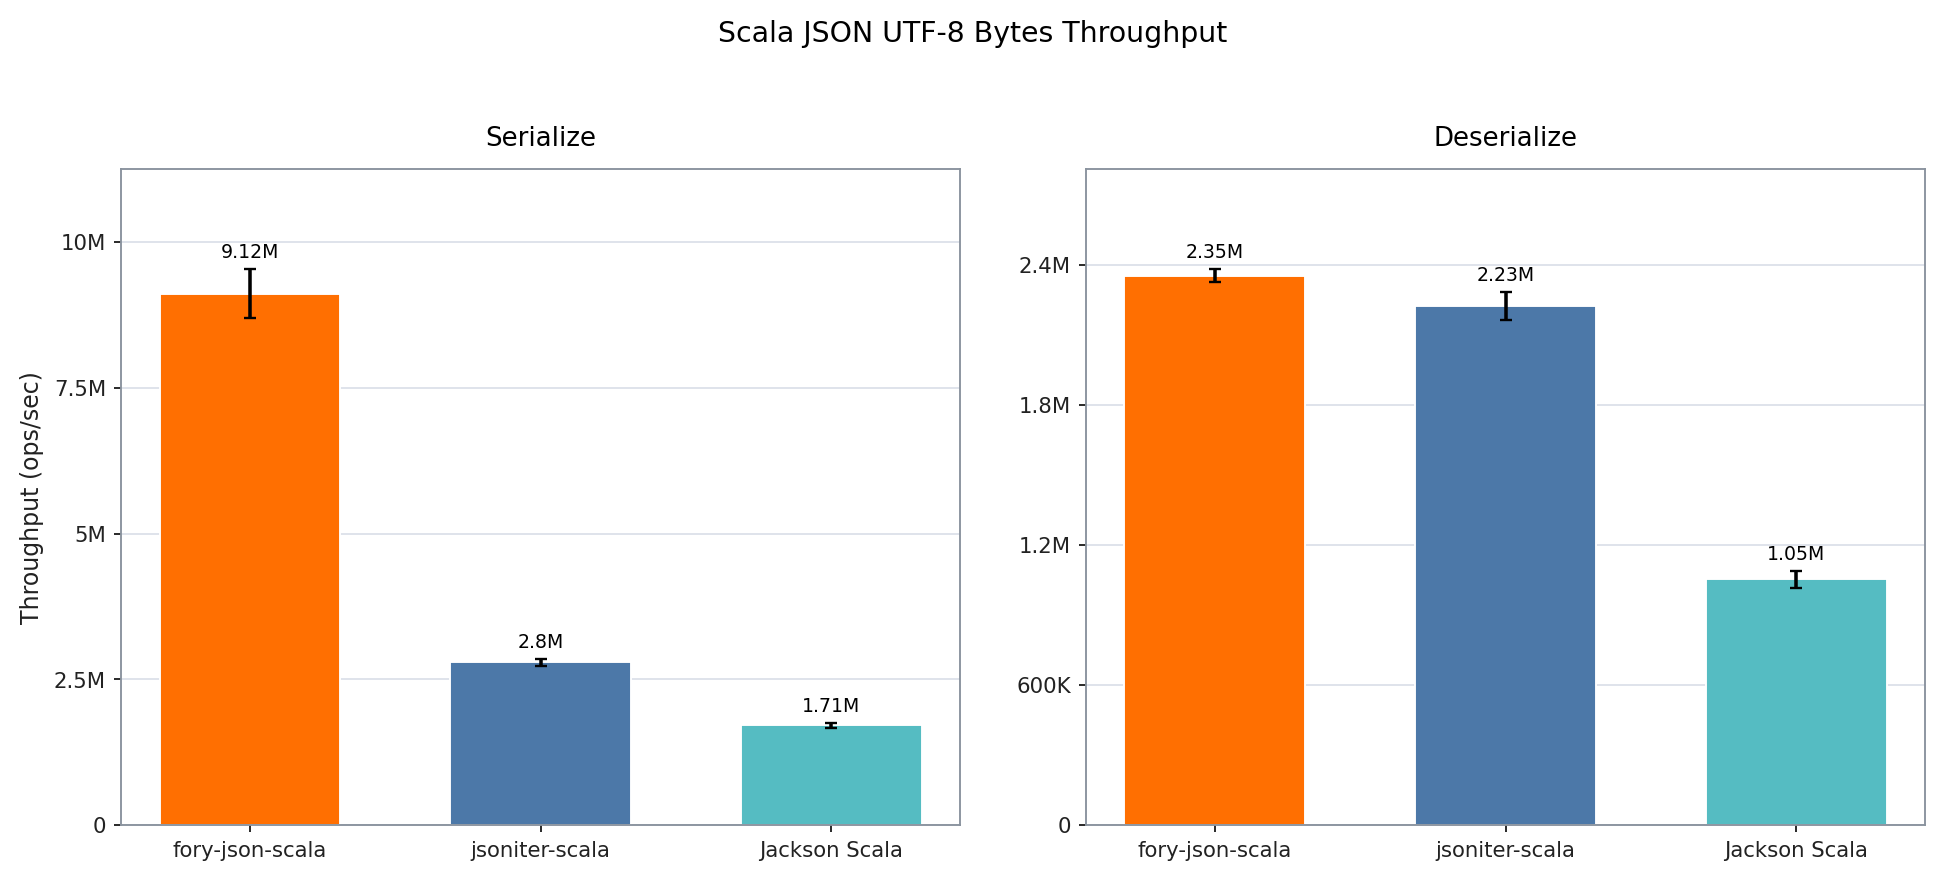
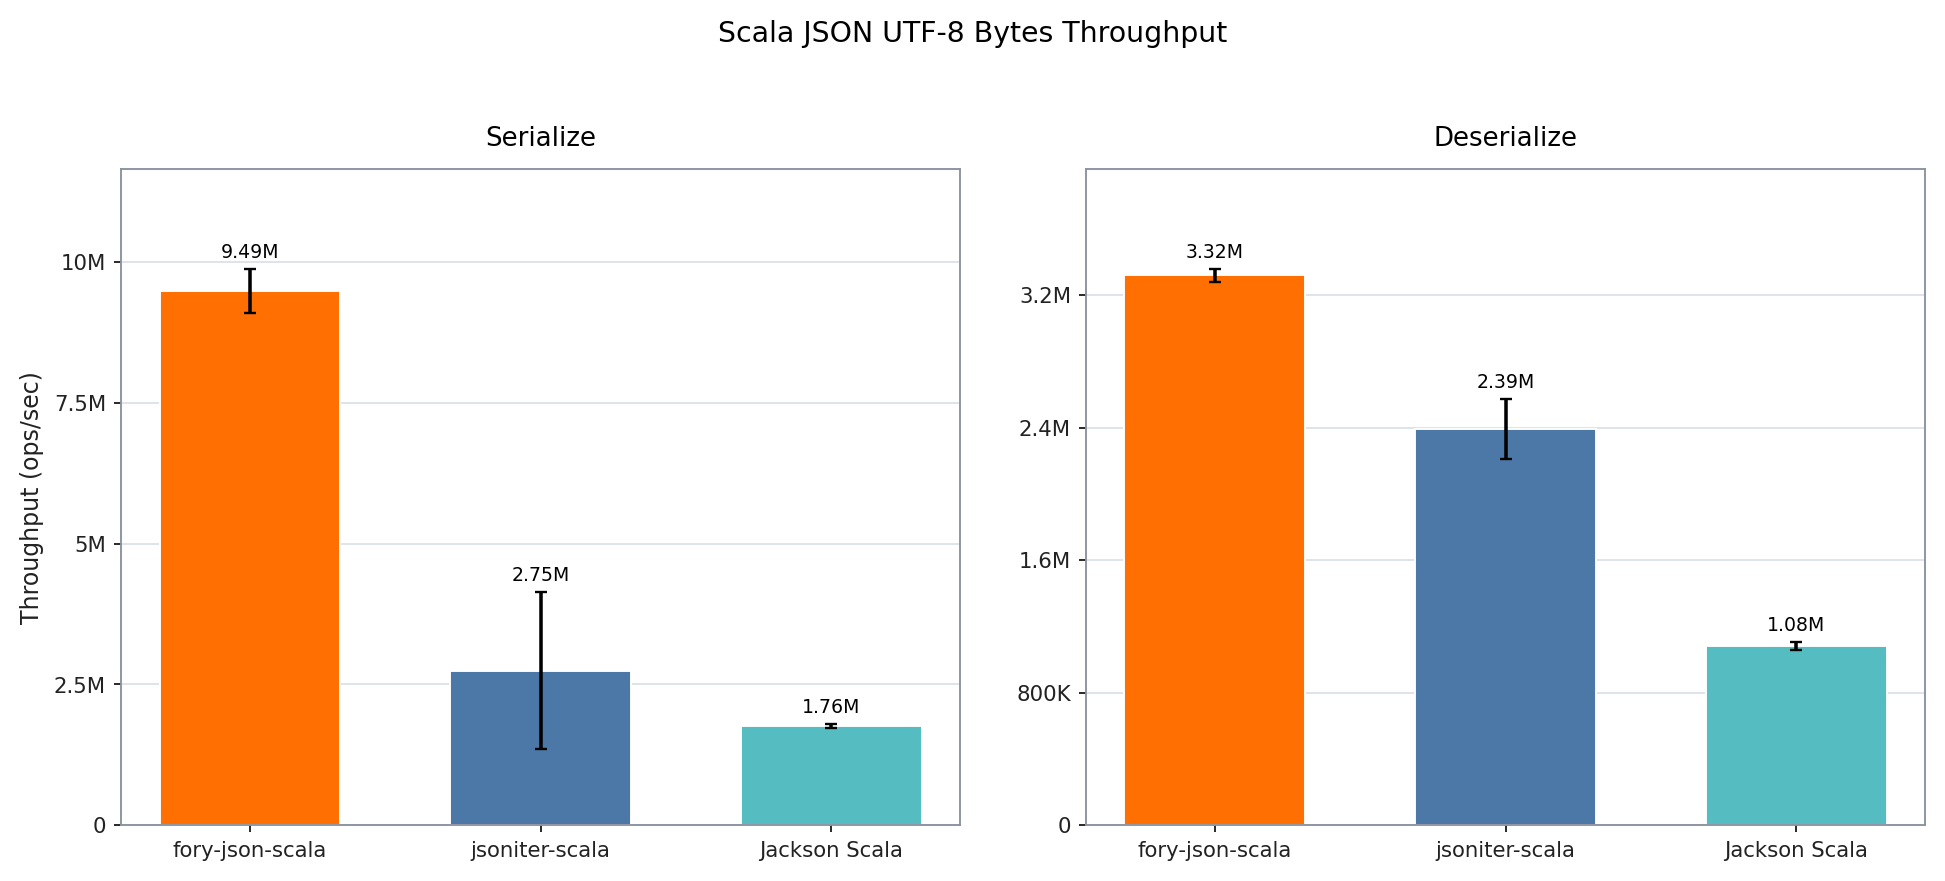
docs(scala): publish optimized JSON benchmarks

diff --git a/docs/benchmarks/json/scala/README.md b/docs/benchmarks/json/scala/README.md
@@ -3,13 +3,13 @@
 The benchmark compares fory-json-scala, jsoniter-scala, and Jackson Scala on the same immutable Scala MediaContent model and Eishay JSON document. The String group excludes UTF-8 conversion; every library in the UTF-8 group uses its direct byte-array API.
 
 - Benchmark date: `2026-08-14`
-- Source commit: `05670052978e76f1ae5b6df74049dc9bad790019`
+- Source commit: `588ad6ab355c4c23fa0a2e4f269a8c733cba7b01`
 - Platform: macOS-15.7.2-arm64-arm-64bit (arm64)
 - JDK: `26.0.1`
 - VM: `OpenJDK 64-Bit Server VM`
 - JMH: `1.37`
-- Warmup: 1 iterations × `500 ms`
-- Measurement: 2 iterations × `500 ms`
+- Warmup: 2 iterations × `1 s`
+- Measurement: 2 iterations × `1 s`
 - Forks: 1; threads: 1
 - Aggregation: median of 3 alternating short runs; error bars show the maximum cross-run deviation
 - Mode: throughput; higher is better
@@ -26,16 +26,16 @@ The benchmark compares fory-json-scala, jsoniter-scala, and Jackson Scala on the
 
 | Representation | Operation   | fory-json-scala ops/sec | jsoniter-scala ops/sec | Jackson Scala ops/sec | Fastest         |
 | -------------- | ----------- | ----------------------: | ---------------------: | --------------------: | --------------- |
-| String         | Serialize   |               6,633,363 |              2,709,254 |             2,016,233 | fory-json-scala |
-| String         | Deserialize |               2,716,257 |              2,171,056 |               932,881 | fory-json-scala |
-| UTF-8 bytes    | Serialize   |               9,116,849 |              2,797,010 |             1,710,957 | fory-json-scala |
-| UTF-8 bytes    | Deserialize |               2,354,314 |              2,225,435 |             1,053,413 | fory-json-scala |
+| String         | Serialize   |               6,760,588 |              2,748,997 |             1,955,855 | fory-json-scala |
+| String         | Deserialize |               3,771,280 |              2,350,297 |               960,362 | fory-json-scala |
+| UTF-8 bytes    | Serialize   |               9,485,122 |              2,745,567 |             1,761,719 | fory-json-scala |
+| UTF-8 bytes    | Deserialize |               3,318,893 |              2,391,923 |             1,080,453 | fory-json-scala |
 
 ## Fory performance advantage
 
 | Representation | Operation   | vs jsoniter-scala | vs Jackson Scala |
 | -------------- | ----------- | ----------------: | ---------------: |
-| String         | Serialize   |            144.8% |           229.0% |
-| String         | Deserialize |             25.1% |           191.2% |
-| UTF-8 bytes    | Serialize   |            225.9% |           432.9% |
-| UTF-8 bytes    | Deserialize |              5.8% |           123.5% |
+| String         | Serialize   |            145.9% |           245.7% |
+| String         | Deserialize |             60.5% |           292.7% |
+| UTF-8 bytes    | Serialize   |            245.5% |           438.4% |
+| UTF-8 bytes    | Deserialize |             38.8% |           207.2% |
